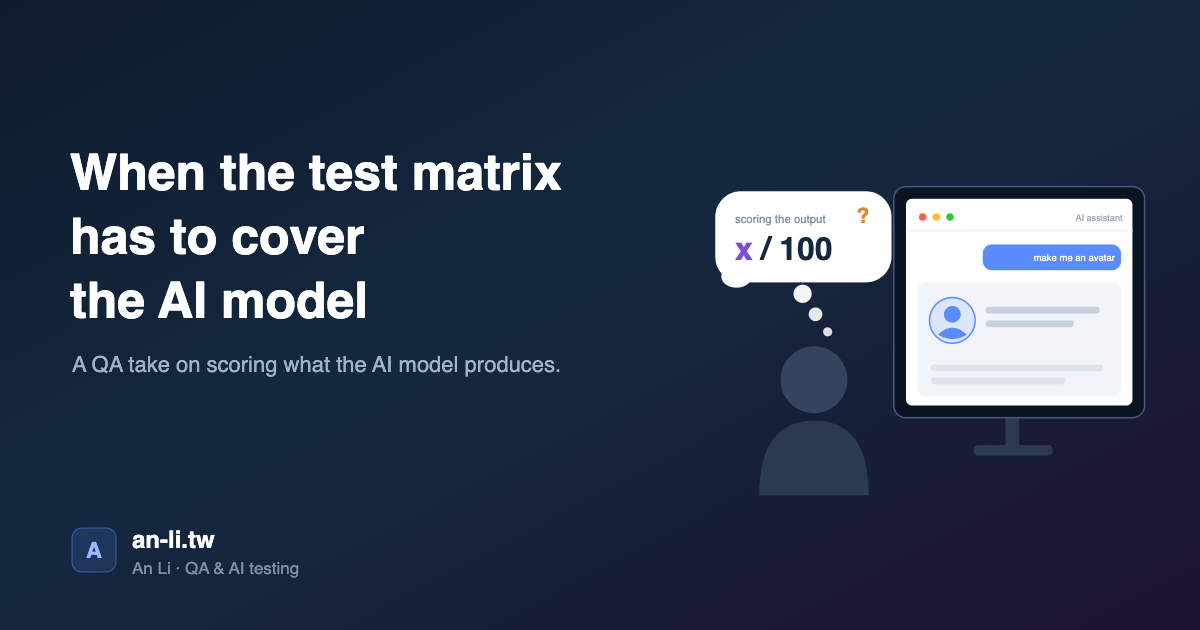
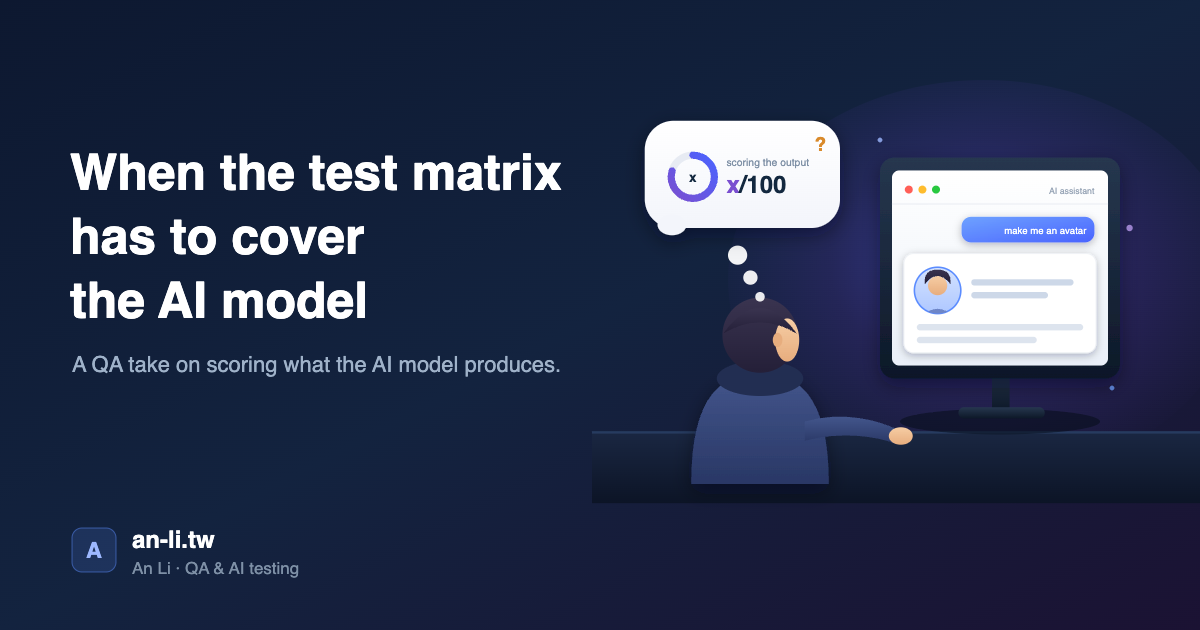
blog: upgrade cover/OG to a refined digital illustration
Add gradients, soft drop shadows, a glow, a shaded back-view character at a
desk, a polished chat UI with a gradient avatar reply, and a thought bubble
with a circular score gauge (x/100). Regenerate the OG PNG; bump cover bg
cache-buster to v=4.

Changed region(s): [[0.4933, 0.181, 1.0, 0.8143]]

diff --git a/blog/test-matrix-meets-ai-product.html b/blog/test-matrix-meets-ai-product.html
@@ -111,7 +111,7 @@
 
     <article class="blog-single">
 
-        <div class="page-header page-header--single page-hero" style="background-image:url(../images/blog/cover-test-matrix.svg?v=3);background-color:#13283f;background-size:cover;background-position:center">
+        <div class="page-header page-header--single page-hero" style="background-image:url(../images/blog/cover-test-matrix.svg?v=4);background-color:#13283f;background-size:cover;background-position:center">
 
             <div class="row page-header__content narrow">
                 <article class="col-full">
